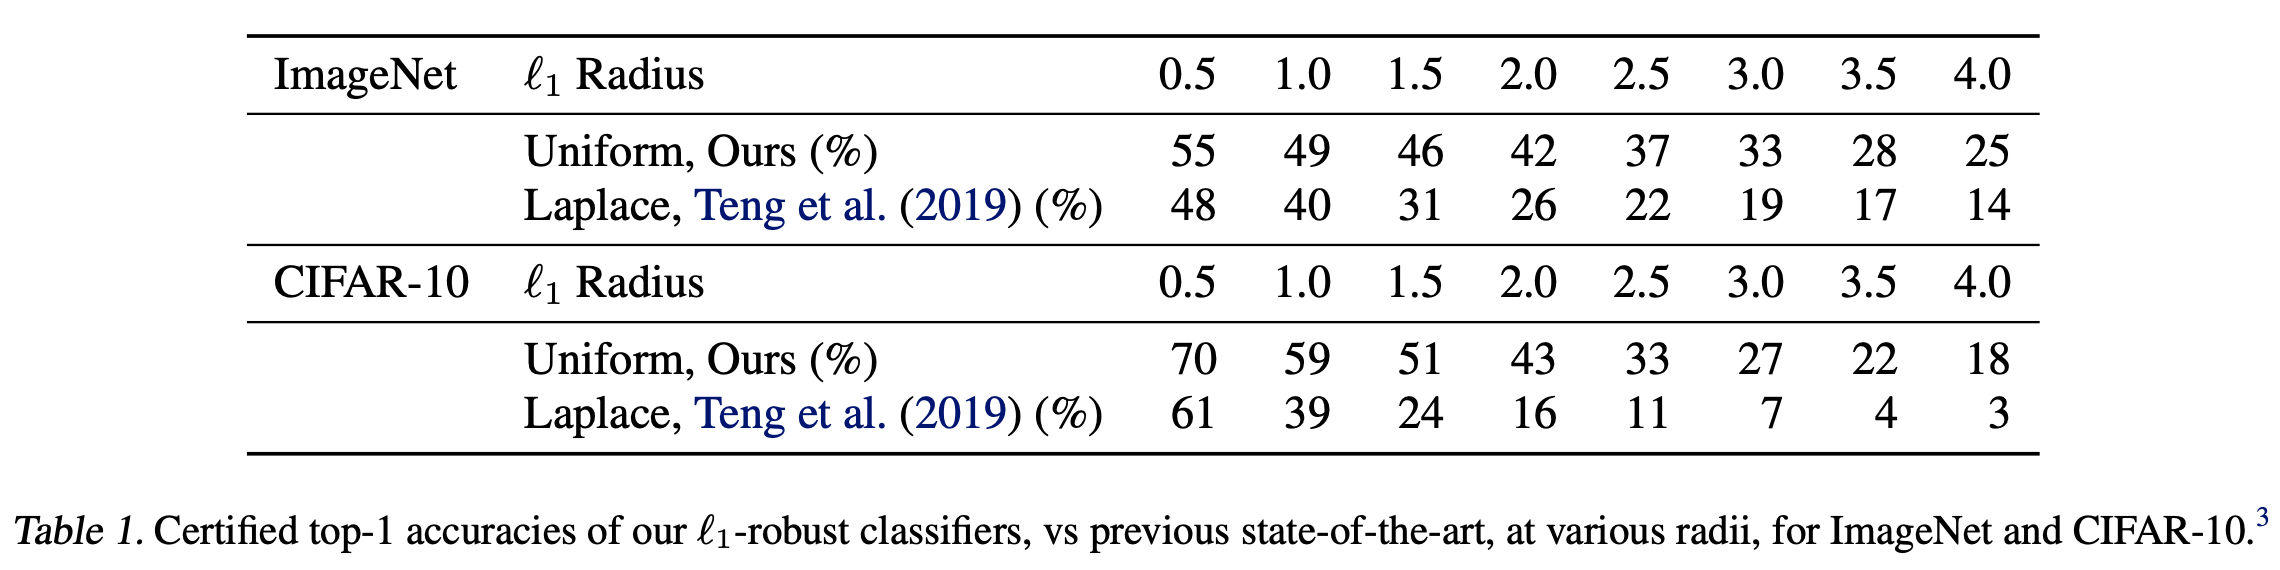
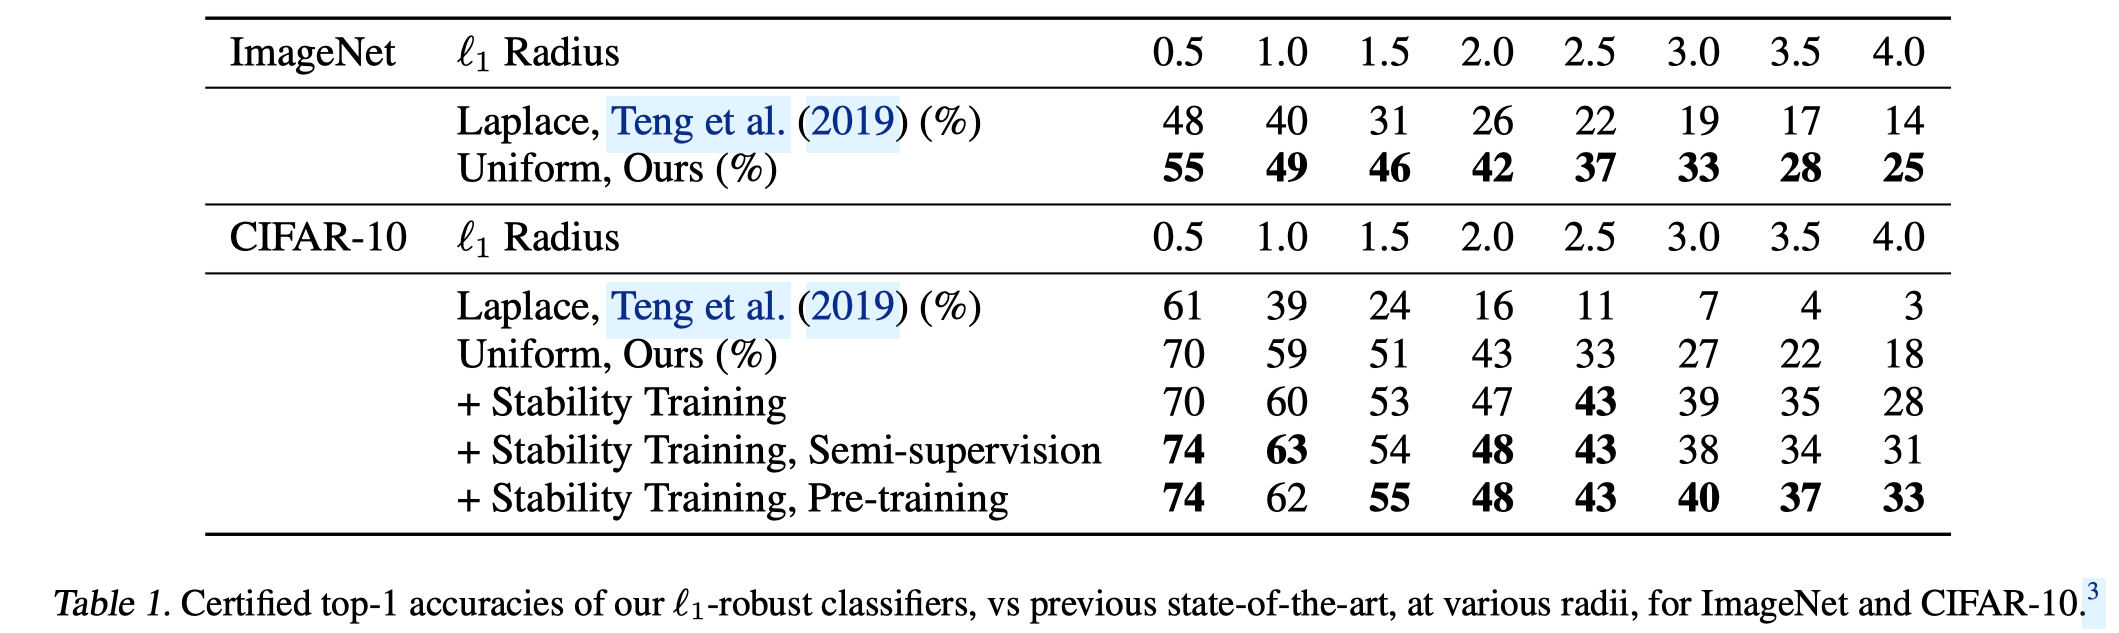
Update README with stability training, pre-training, semi-supervision.

Changed region(s): [[0.0934, 0.0596, 0.9344, 0.8649], [0.0, 0.8947, 0.9967, 1.0], [0.0934, 0.0, 0.9033, 0.0298]]

diff --git a/README.md b/README.md
@@ -1,6 +1,6 @@
 # Randomized Smoothing of All Shapes and Sizes
 
-Last update: February 2020.
+Last update: July 2020.
 
 ---
 
@@ -8,7 +8,7 @@ Code to accompany our paper:
 
 **Randomized Smoothing of All Shapes and Sizes**  
 *Greg Yang\*, Tony Duan\*, J. Edward Hu, Hadi Salman, Ilya Razenshteyn, Jerry Li.*  
-[[Arxiv Link to Manuscript]](https://arxiv.org/abs/2002.08118)
+International Conference on Machine Learning (ICML), 2020 [[Paper]](https://arxiv.org/abs/2002.08118) [[Blog Post]](http://decentdescent.org/rs4a1.html)
 
 Notably, we outperform existing provably <img alt="$\ell_1$" src="svgs/839a0dc412c4f8670dd1064e0d6d412f.svg" align="middle" width="13.40191379999999pt" height="22.831056599999986pt"/>-robust classifiers on ImageNet and CIFAR-10.
 
@@ -132,7 +132,15 @@ CIFAR-10 (Wide ResNet 40-2): [[All Models,  226 MB]](http://www.tonyduan.com/res
 - Sigma=3.25: [[Uniform]](http://www.tonyduan.com/resources/2020_rs4a_ckpts/cifar_uniform_325.pt)
 - Sigma=3.5: [[Uniform]](http://www.tonyduan.com/resources/2020_rs4a_ckpts/cifar_uniform_350.pt)
 
-An example of usage is below. For more in depth example see our `tutorial.ipynb` notebook.
+By default the models above were trained with noise augmentation. We further improve upon our state-of-the-art certified accuracies using recent advances in training smoothed classifiers: (1) by using stability training (Li et al. NeurIPS 2019), and (2)  by leveraging additional data using (a) pre-training on downsampled ImageNet (Hendrycks et al. NeurIPS 2019) and (b) semi-supervised self-training with data from 80 Million Tiny Images (Carmon et al. 2019). Our improved models trained with these methods are released below.
+
+CIFAR-10 (Wide ResNet 40-2):
+
+- Stability training: [[All Models, 234 MB]](http://www.tonyduan.com/resources/2020_rs4a_ckpts/cifar_stability.zip)
+- Stability training + pre-training: [[All Models, 236 MB]](http://www.tonyduan.com/resources/2020_rs4a_ckpts/cifar_pretrained.zip)
+- Stability training + semi-supervised learning: [[All Models, 235 MB]](http://www.tonyduan.com/resources/2020_rs4a_ckpts/cifar_semisup.zip)
+
+An example of pre-trained model usage is below. For more in depth example see our `tutorial.ipynb` notebook.
 
 ```python
 from src.models import WideResNet

diff --git a/READMATH.md b/READMATH.md
@@ -1,6 +1,6 @@
 # Randomized Smoothing of All Shapes and Sizes
 
-Last update: February 2020.
+Last update: July 2020.
 
 ---
 
@@ -8,7 +8,7 @@ Code to accompany our paper:
 
 **Randomized Smoothing of All Shapes and Sizes**  
 *Greg Yang\*, Tony Duan\*, J. Edward Hu, Hadi Salman, Ilya Razenshteyn, Jerry Li.*  
-[[Arxiv Link to Manuscript]](https://arxiv.org/abs/2002.08118)
+International Conference on Machine Learning (ICML), 2020 [[Paper]](https://arxiv.org/abs/2002.08118) [[Blog Post]](http://decentdescent.org/rs4a1.html)
 
 Notably, we outperform existing provably $\ell_1$-robust classifiers on ImageNet and CIFAR-10.
 
@@ -134,7 +134,15 @@ CIFAR-10 (Wide ResNet 40-2): [[All Models,  226 MB]](http://www.tonyduan.com/res
 - Sigma=3.25: [[Uniform]](http://www.tonyduan.com/resources/2020_rs4a_ckpts/cifar_uniform_325.pt)
 - Sigma=3.5: [[Uniform]](http://www.tonyduan.com/resources/2020_rs4a_ckpts/cifar_uniform_350.pt)
 
-An example of usage is below. For more in depth example see our `tutorial.ipynb` notebook.
+By default the models above were trained with noise augmentation. We further improve upon our state-of-the-art certified accuracies using recent advances in training smoothed classifiers: (1) by using stability training (Li et al. NeurIPS 2019), and (2)  by leveraging additional data using (a) pre-training on downsampled ImageNet (Hendrycks et al. NeurIPS 2019) and (b) semi-supervised self-training with data from 80 Million Tiny Images (Carmon et al. 2019). Our improved models trained with these methods are released below.
+
+CIFAR-10 (Wide ResNet 40-2):
+
+- Stability training: [[All Models, 234 MB]](http://www.tonyduan.com/resources/2020_rs4a_ckpts/cifar_stability.zip)
+- Stability training + pre-training: [[All Models, 236 MB]](http://www.tonyduan.com/resources/2020_rs4a_ckpts/cifar_pretrained.zip)
+- Stability training + semi-supervised learning: [[All Models, 235 MB]](http://www.tonyduan.com/resources/2020_rs4a_ckpts/cifar_semisup.zip)
+
+An example of pre-trained model usage is below. For more in depth example see our `tutorial.ipynb` notebook.
 
 ```python
 from src.models import WideResNet
